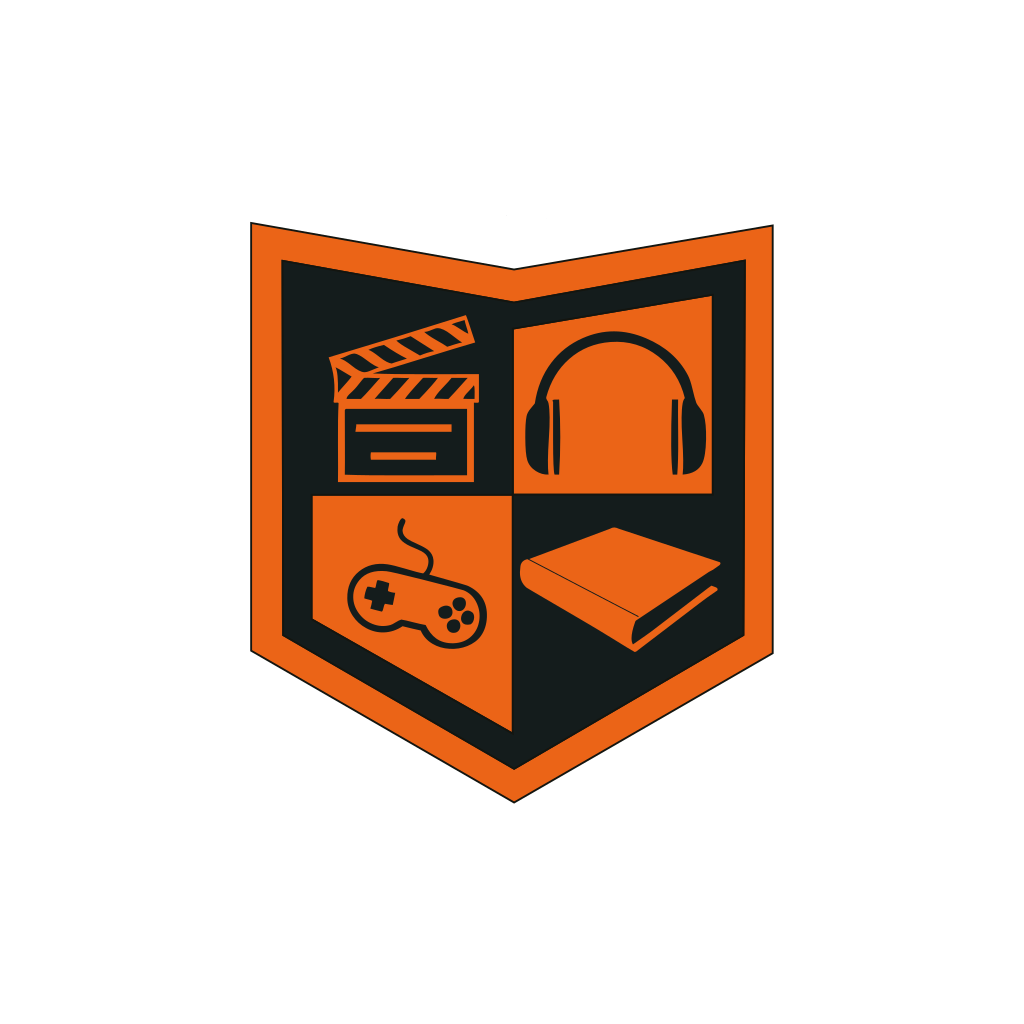
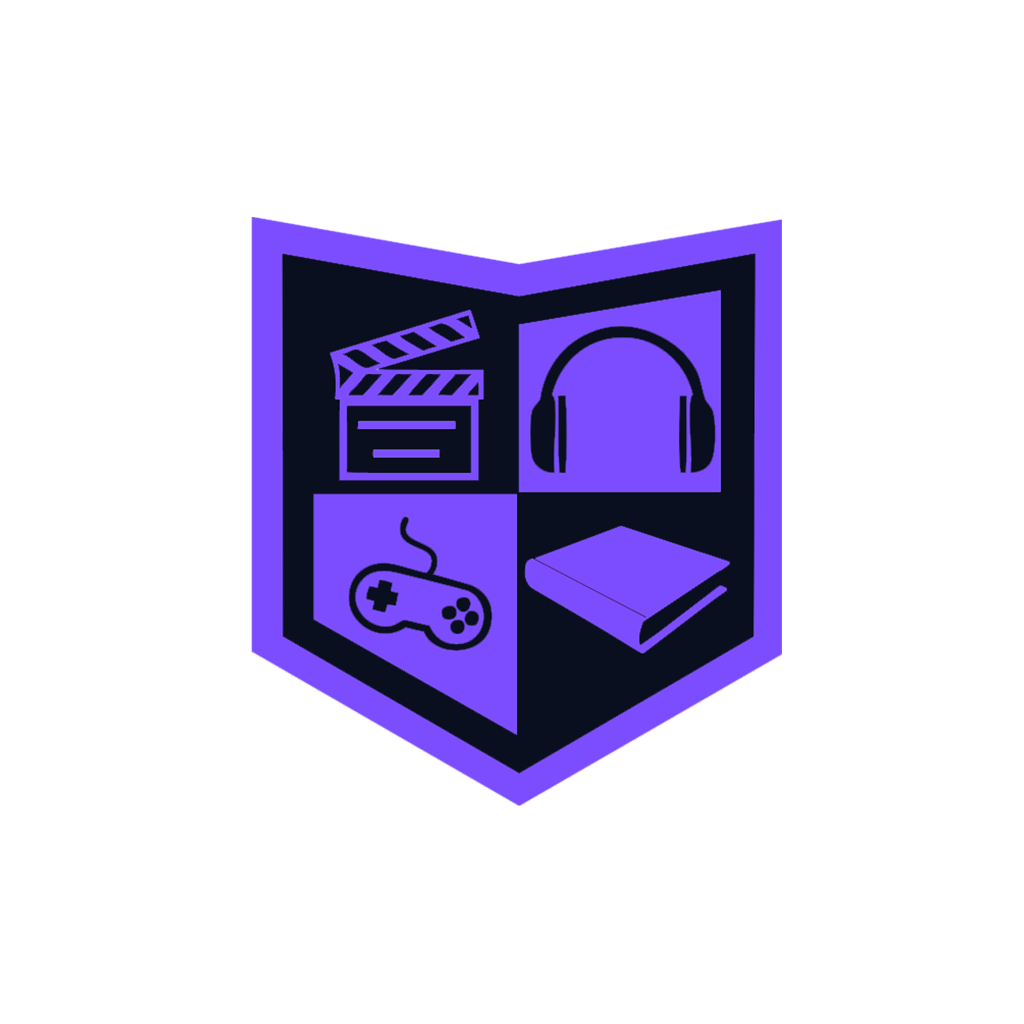
.

Changed region(s): [[0.2188, 0.1875, 0.7812, 0.7812]]

diff --git a/App.tsx b/App.tsx
@@ -25,6 +25,10 @@ const { LightTheme, DarkTheme } = adaptNavigationTheme({
 
 const paperColorsLight = {
   ...MD3LightTheme.colors,
+  primary: '#7c4dff', 
+  onPrimary: '#ffffff',
+  primaryContainer: '#e6e0ff',
+  onPrimaryContainer: '#260058',
   background: '#ffffff',
   surface: '#f1f5f9',
   surfaceVariant: '#e2e8f0',
@@ -34,6 +38,10 @@ const paperColorsLight = {
 
 const paperColorsDark = {
   ...MD3DarkTheme.colors,
+  primary: '#bfbaff',
+  onPrimary: '#431d9b',
+  primaryContainer: '#6242c7',
+  onPrimaryContainer: '#e6e0ff',
   background: '#060d17',
   surface: '#0f172a',
   surfaceVariant: '#1e293b',
@@ -45,9 +53,9 @@ const paperThemeLight = { ...MD3LightTheme, colors: paperColorsLight };
 const paperThemeDark = { ...MD3DarkTheme, colors: paperColorsDark };
 
 const navThemeLight = {
-  ...NavDefaultTheme,
+  ...LightTheme,
   colors: {
-    ...NavDefaultTheme.colors,
+    ...LightTheme.colors,
     primary: paperColorsLight.primary,
     background: paperColorsLight.background,
     card: paperColorsLight.surface,
@@ -58,9 +66,9 @@ const navThemeLight = {
 };
 
 const navThemeDark = {
-  ...NavDarkTheme,
+  ...DarkTheme,
   colors: {
-    ...NavDarkTheme.colors,
+    ...DarkTheme.colors,
     primary: paperColorsDark.primary,
     background: paperColorsDark.background,
     card: paperColorsDark.surface,
